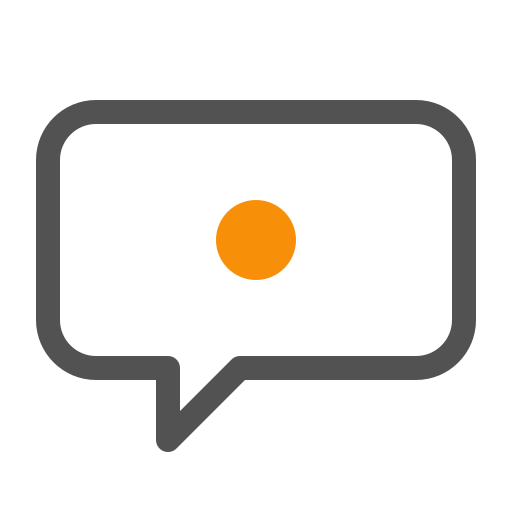
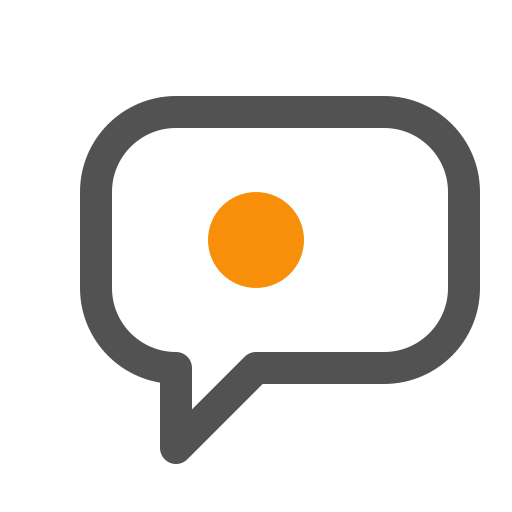
Tighten chat glyph to match halo's visual weight
The chat bubble icon read thinner and more angular than halo's ring next
to it on iOS home screen. Bring them in line:

- Bubble corner radius 6 → 10 (more rounded, less square).
- Stroke 3 → 4 to compensate for the longer perimeter — halo's closed
  ring at stroke 3 reads as a thicker line; chat's bubble path needed
  the bump to feel equally weighty.
- Inner dot r 5 → 6 to exactly match halo's accent dot.

Updated favicon.svg, the chat-design skill's chat-logo.svg, and
Wordmark.tsx; regenerated apple-touch-icon, icon-192, icon-512 from
favicon.svg with rsvg-convert.

Changed region(s): [[0.0625, 0.1875, 0.9375, 0.9062], [0.4062, 0.375, 0.5938, 0.5625], [0.2812, 0.75, 0.3125, 0.875]]

diff --git a/frontend/src/components/Wordmark.tsx b/frontend/src/components/Wordmark.tsx
@@ -36,12 +36,12 @@ const Wordmark = ({ size = 22, short = false }: WordmarkProps) => {
         aria-hidden="true"
       >
         <path
-          d="M12 14h40a6 6 0 0 1 6 6v20a6 6 0 0 1-6 6H30l-9 9v-9h-9a6 6 0 0 1-6-6V20a6 6 0 0 1 6-6z"
+          d="M22 14H48a10 10 0 0 1 10 10V36a10 10 0 0 1-10 10H32l-10 10v-10a10 10 0 0 1-10-10V24a10 10 0 0 1 10-10z"
           stroke="currentColor"
-          strokeWidth="3"
+          strokeWidth="4"
           strokeLinejoin="round"
         />
-        <circle cx="32" cy="30" r="5" fill={accent} />
+        <circle cx="32" cy="30" r="6" fill={accent} />
       </svg>
       <span
         css={{
